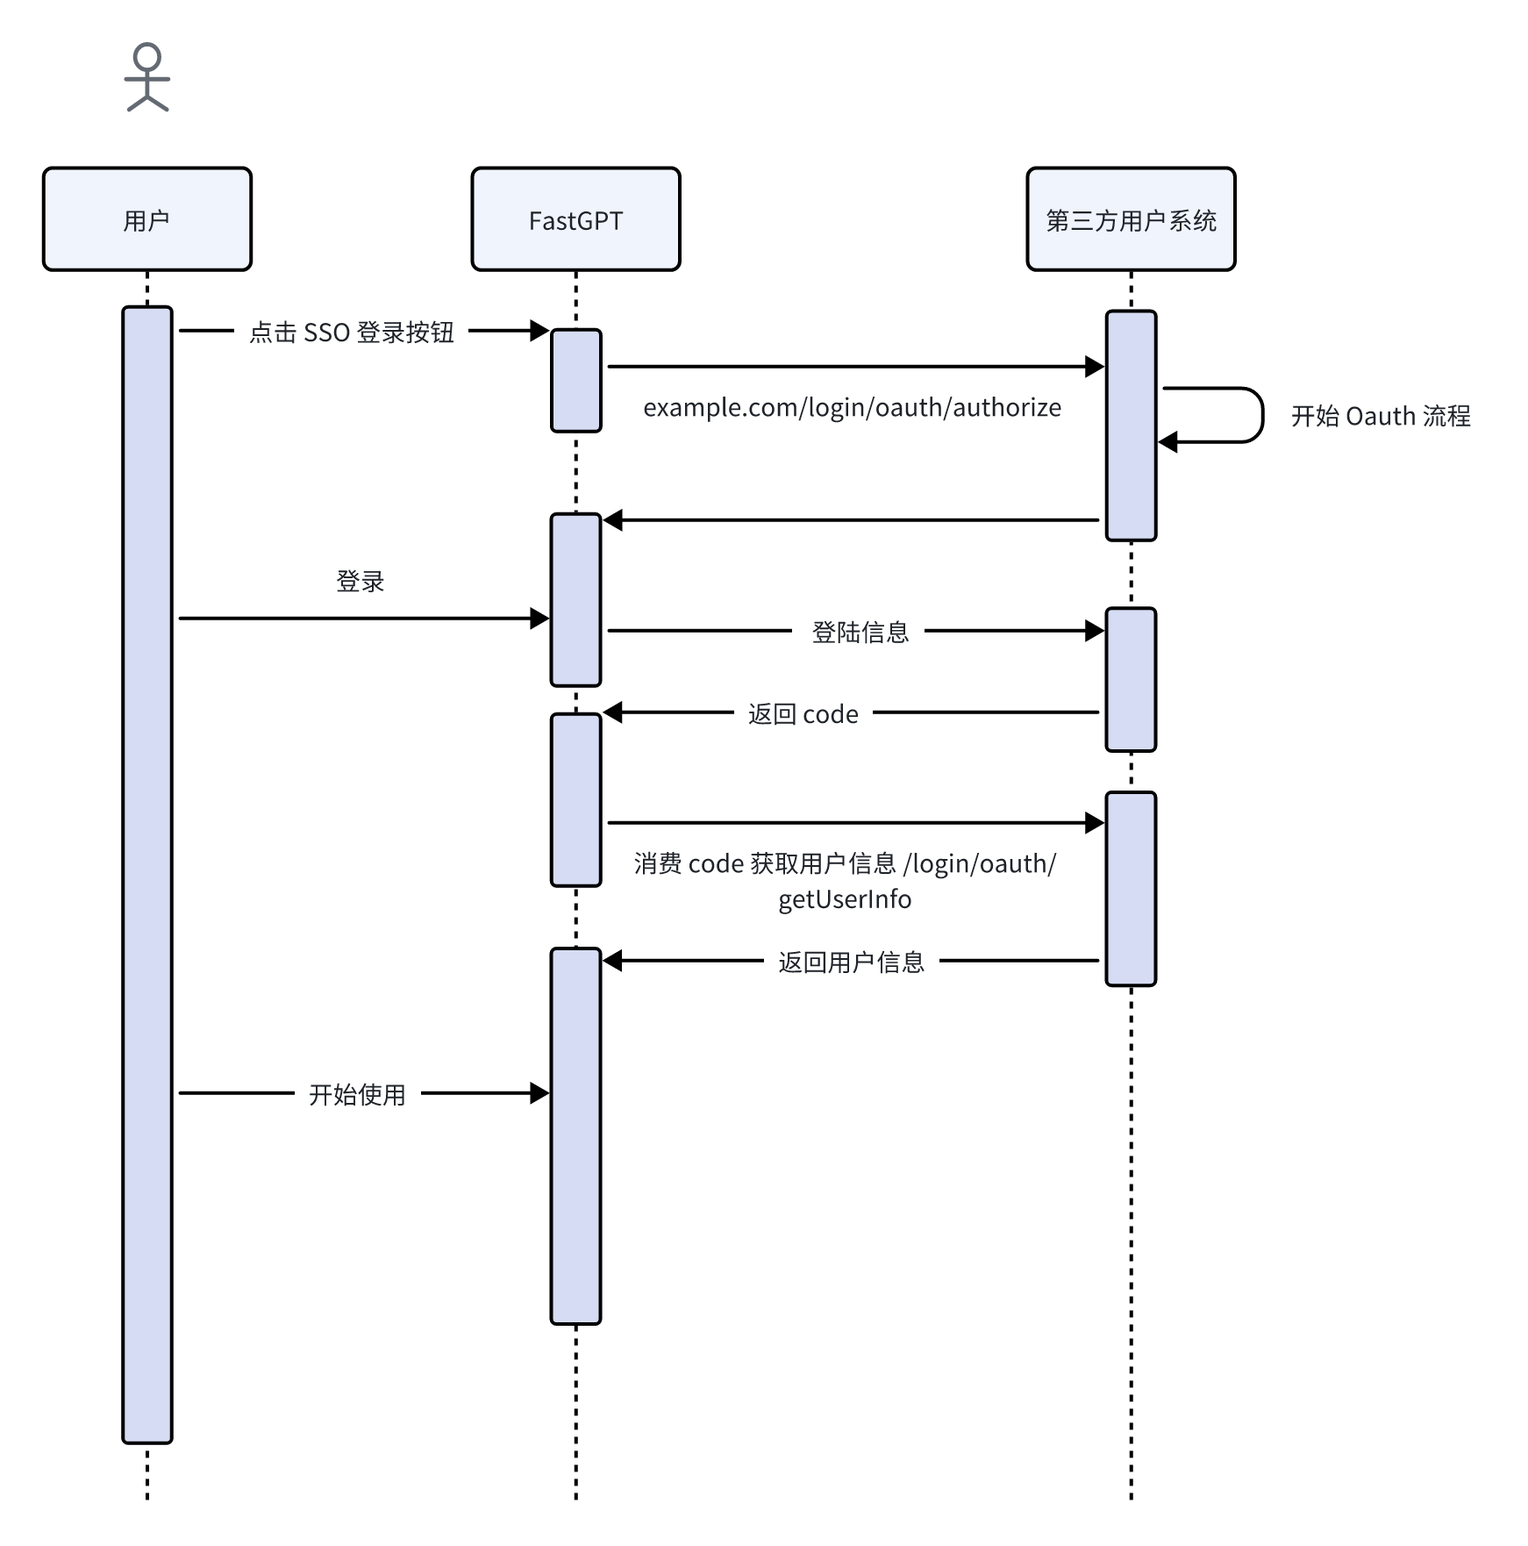
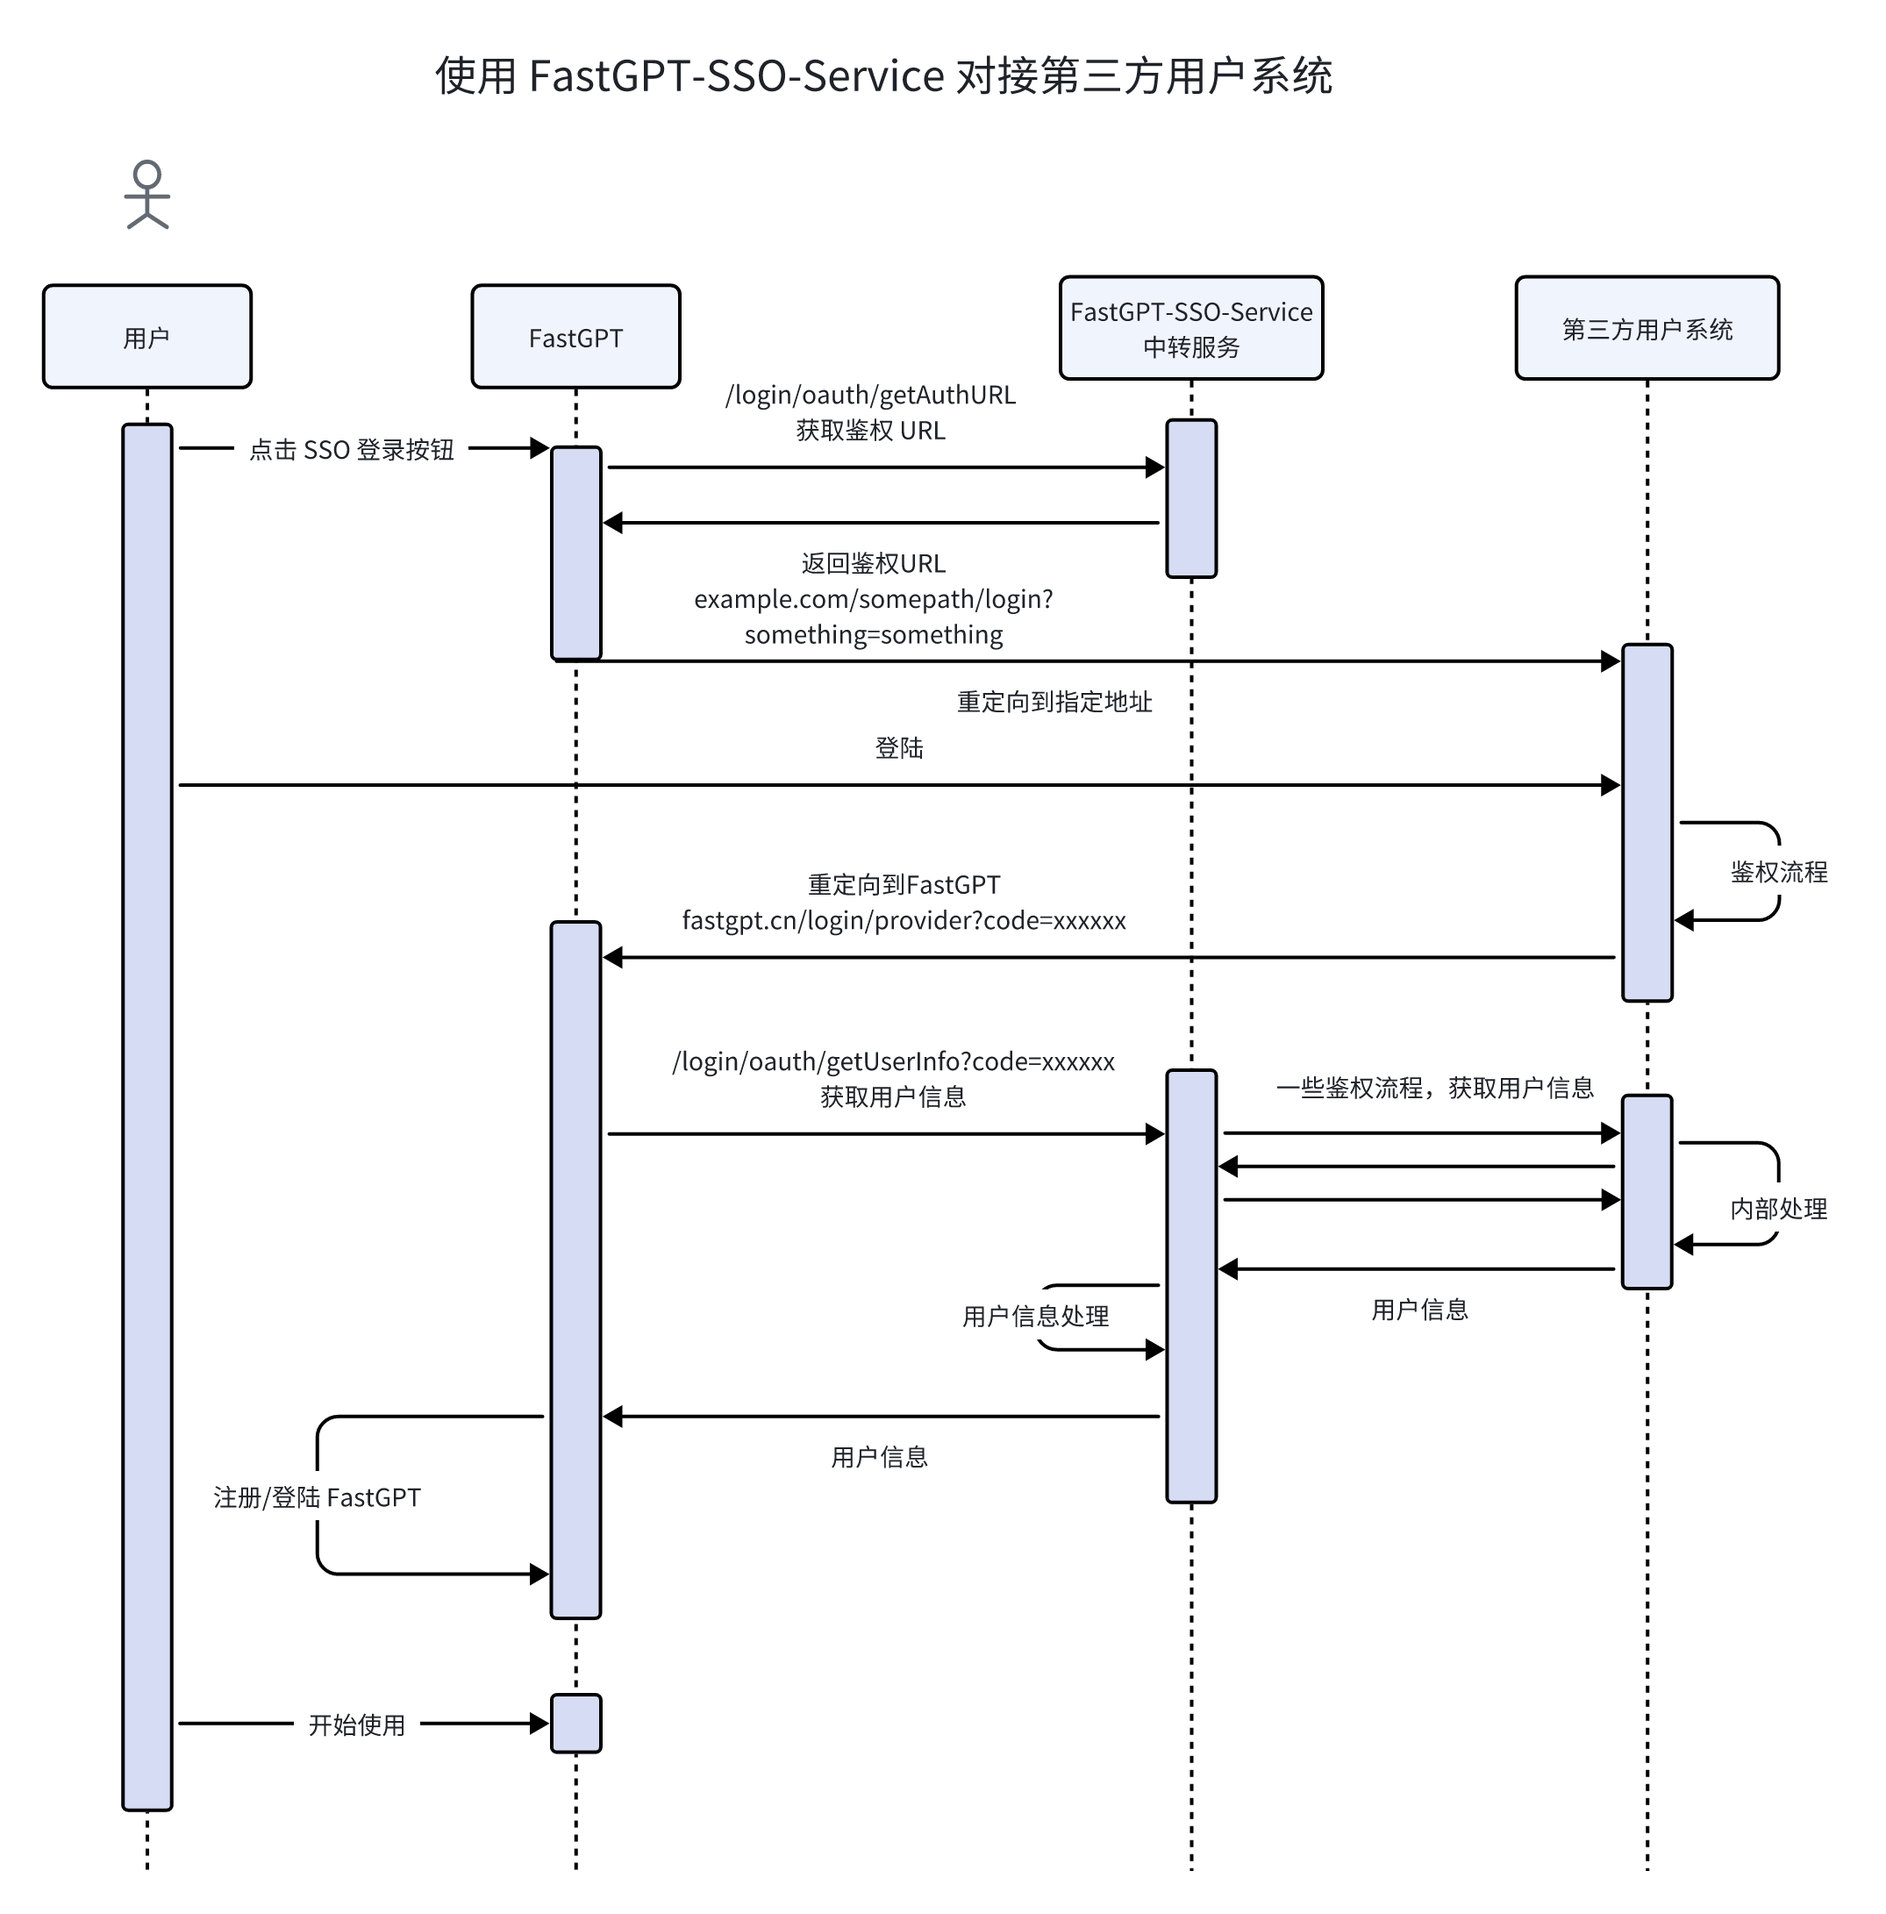
add new pic and fix ssd.md

diff --git a/docSite/content/zh-cn/docs/guide/admin/sso.md b/docSite/content/zh-cn/docs/guide/admin/sso.md
@@ -350,7 +350,7 @@ fastgpt-sso:
 
 FastGPT 提供如下标准接口支持：
 
-1. https://example.com/getAuthURL 获取鉴权重定向地址
+1. https://example.com/login/oauth/getAuthURL 获取鉴权重定向地址
 2. https://example.com/login/oauth/getUserInfo?code=xxxxx 消费 code，换取用户信息
 3. https://example.com/org/list 获取组织列表
 4. https://example.com/user/list 获取成员列表
@@ -361,12 +361,13 @@ FastGPT 提供如下标准接口支持：
 
 redirect_uri  会自动拼接到该地址的 query中。
 
-GET /login/oauth/getAuthURL
+返回如下信息(JSON):
+
 ```JSON
 {
-  "success": true,
-  "message": "错误信息",
-  "authURL": "https://example.com/somepath/login/oauth?redirect_uri=https%3A%2F%2Ffastgpt.cn%2Flogin%2Fprovider%0A"
+   "success": true,
+   "message": "错误信息",
+   "authURL": "https://example.com/somepath/login/oauth?redirect_uri=https%3A%2F%2Ffastgpt.cn%2Flogin%2Fprovider%0A"
 }
 ```
 
@@ -390,9 +391,6 @@ curl -X GET "https://redict.example/login/oauth/getAuthURL?redirect_uri=xxx&stat
 
 该接口接受一个 code 参数作为鉴权，消费 code 返回用户信息。
 
-https://oauth.example/login/oauth/getUserInfo?code=xxxx
-
-GET /login/oauth/getUserInfo?code=xxxxxx
 返回如下信息(JSON):
 
 ```JSON
@@ -427,8 +425,6 @@ curl -X GET "https://oauth.example/login/oauth/getUserInfo?code=xxxxxx" \
 ### 获取组织
 
 1. 同步组织 /org/list
-
-GET https://example.com/org/list
 
 ⚠注意：只能存在一个根部门。如果你的系统中存在多个根部门，需要先进行处理，加一个虚拟的根部门。
 返回值类型：
@@ -476,8 +472,6 @@ curl -X GET "https://example.com/org/list" \
 
 1. 同步用户 /user/list
 
-GET https://example.com/user/list
-
 返回值类型：
 
 ```typescript
@@ -508,14 +502,14 @@ curl -X GET "https://example.com/user/list" \
   "message": "",
   "userList": [
     {
-      "username": "sync-123456789",
+      "username": "od-123456789",
       "memberName": "张三",
       "avatar": "https://example.webp",
       "contact": "+861234567890",
       "orgs": ["od-125151515", "od-51516152"]
     },
     {
-      "username": "sync-12345678999",
+      "username": "od-12345678999",
       "memberName": "李四",
       "avatar": "",
       "contact": "",
